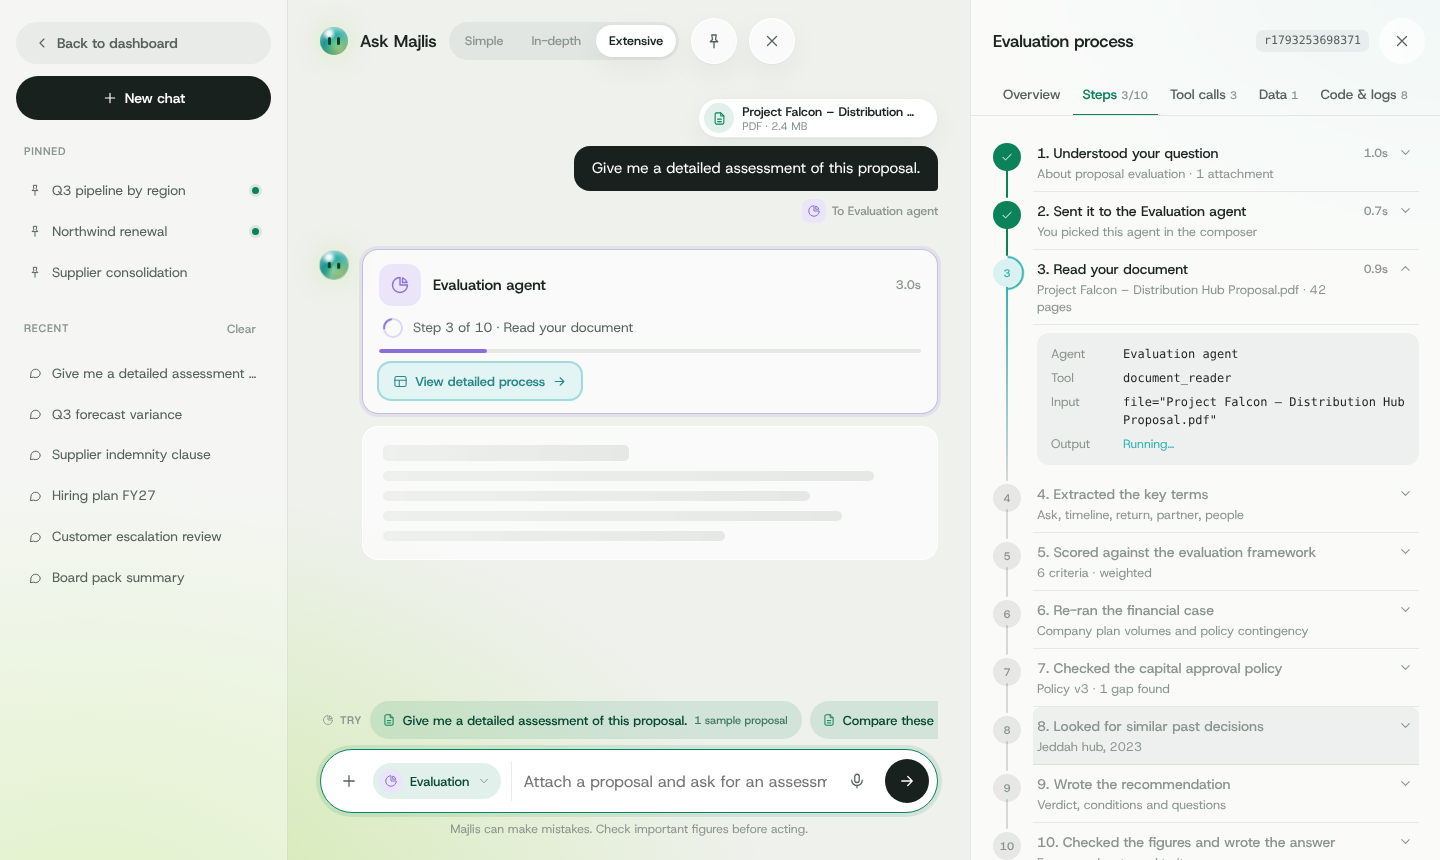
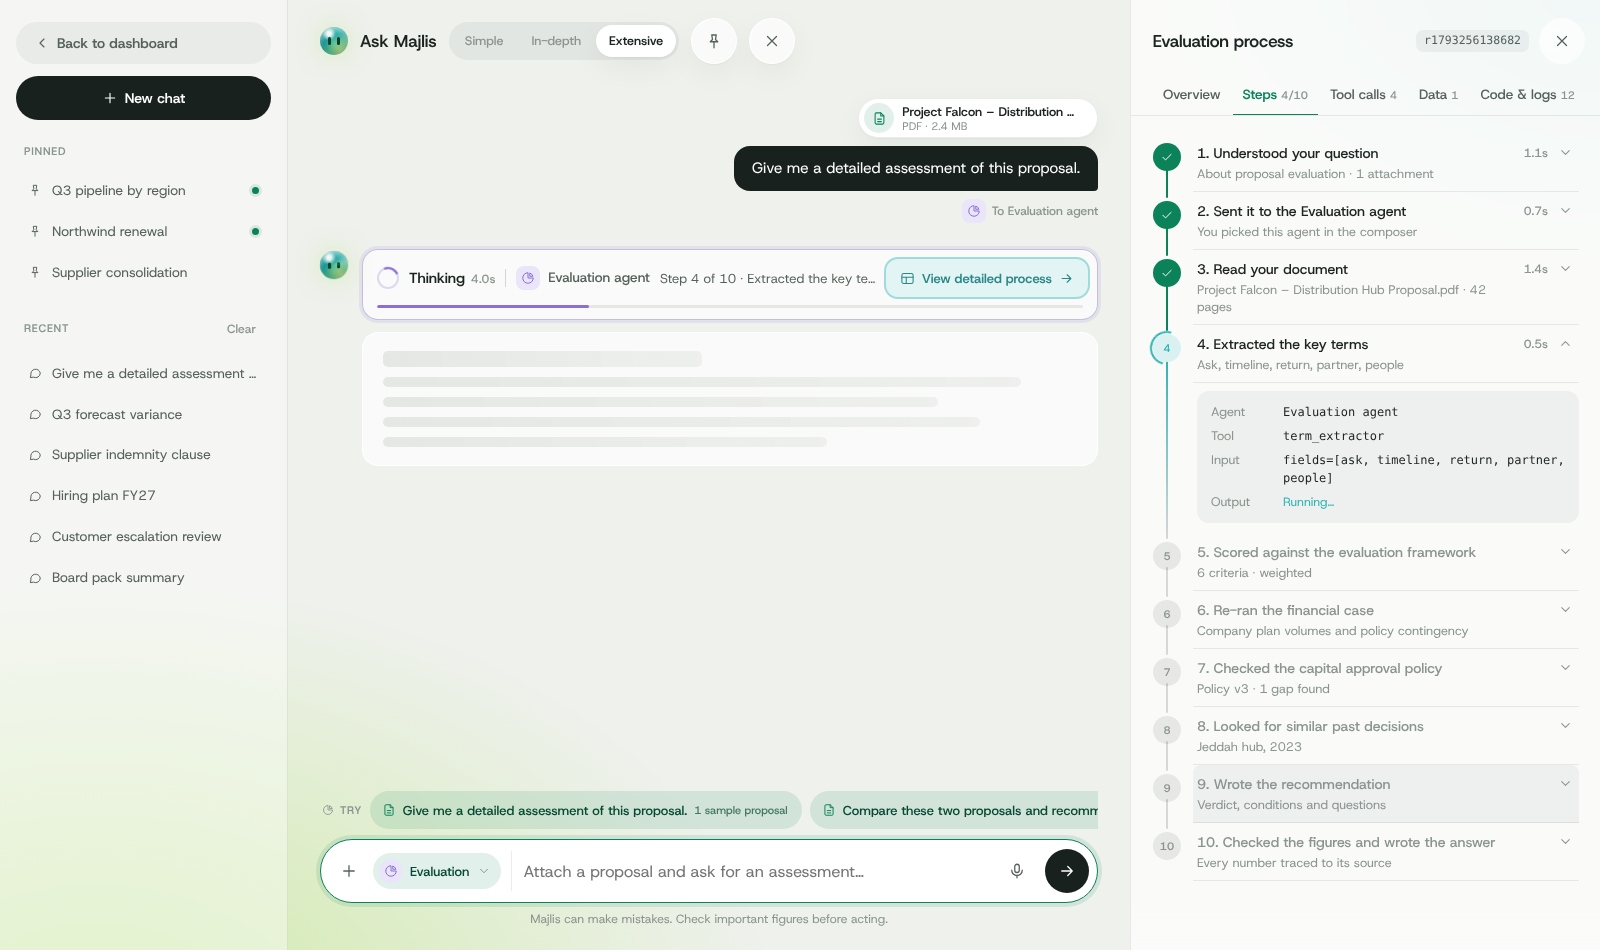
Option C Extensive: fix tab pill alignment, one-line thinking header
The selected-tab pill now re-measures whenever the tab row resizes
(the THINKING label hides while the panel is open). The chat card is
one row: Thought for Ns, the agent, then View detailed process.

Claude-Session: https://claude.ai/code/session_014bHdF62RKHgDmVWWjpCahj

diff --git a/Option C - Extensive.html b/Option C - Extensive.html
@@ -3983,17 +3983,20 @@ window.OM = OM;
 .xp-log .t{color:#6e7f76}.xp-log .lv{display:inline-block;min-width:42px}.xp-log .lv-i{color:#8fc7ff}.xp-log .lv-w{color:#ffcf7a}.xp-log .lv-o{color:#a6e3b8}
 .chat.is-xp .chat__h .chat__src,.chat.is-xp .chat__h .agnow,.chat.is-xp .tv small{display:none}#chatTitle{white-space:nowrap}
 /* the compact agent card in the chat */
-.xc{display:flex;flex-direction:column;gap:10px;padding:14px 16px;border-radius:var(--r);background:var(--card);border:1px solid var(--cardline);box-shadow:var(--shadow);transition:border-color .4s,box-shadow .4s}
+.xc{display:flex;flex-direction:column;gap:8px;padding:9px 9px 9px 14px;border-radius:var(--r);background:var(--card);border:1px solid var(--cardline);box-shadow:var(--shadow);transition:border-color .4s,box-shadow .4s}
 .xc.is-run{border-color:color-mix(in srgb,var(--c4) 35%,var(--line));box-shadow:0 0 0 3px color-mix(in srgb,var(--c4) 12%,transparent)}
-.xc__h{display:flex;align-items:center;gap:12px}.xc__h b{flex:1;font:600 15px/20px var(--font);color:var(--ink)}.xc__h time{font:500 12.5px/1 var(--font);color:var(--ink3);font-variant-numeric:tabular-nums}
-.xc__s{display:flex;align-items:center;gap:10px;padding-inline-start:4px;font-size:13.5px;color:var(--ink2);min-height:22px}
-.xc__dot{display:grid;place-items:center;width:20px;height:20px;border-radius:50%;flex:none;box-shadow:inset 0 0 0 2px var(--accent);color:var(--accent)}
-.xc.is-run .xc__dot{box-shadow:inset 0 0 0 2px color-mix(in srgb,var(--c4) 25%,transparent);position:relative}.xc.is-run .xc__dot::after{content:"";position:absolute;inset:0;border-radius:50%;border:2px solid transparent;border-top-color:var(--c4);animation:spin .8s linear infinite}
-.xc__tx{flex:1;min-width:0}.xc__tx>.swp__i{display:block;white-space:nowrap;overflow:hidden;text-overflow:ellipsis}
+.xc__row{display:flex;align-items:center;gap:10px;min-height:38px}
+.xc__dot{position:relative;display:grid;place-items:center;width:22px;height:22px;border-radius:50%;flex:none;background:var(--accent);color:var(--dark-ink)}
+.xc.is-run .xc__dot{background:none;box-shadow:inset 0 0 0 2px color-mix(in srgb,var(--c4) 25%,transparent)}.xc.is-run .xc__dot::after{content:"";position:absolute;inset:0;border-radius:50%;border:2px solid transparent;border-top-color:var(--c4);animation:spin .8s linear infinite}
+.xc__t{flex:none;font:600 14.5px/20px var(--font);color:var(--ink);white-space:nowrap}.xc__t time{margin-inline-start:6px;font-weight:500;color:var(--ink3);font-variant-numeric:tabular-nums}
+.xc__sep{flex:none;width:1px;height:18px;background:var(--line2)}
+.xc__ag{flex:none;display:inline-flex;align-items:center;gap:8px;font:500 13.5px/1 var(--font);color:var(--ink2);white-space:nowrap}
+.xc__tx{flex:1;min-width:0;font-size:13px;color:var(--ink3)}.xc__tx>.swp__i{display:block;white-space:nowrap;overflow:hidden;text-overflow:ellipsis}
 .xc.is-run .xc__tx .swp__i{background:linear-gradient(90deg,var(--ink2) 0 40%,var(--ink3) 50%,var(--ink2) 60% 100%) 0 0/250% 100%;-webkit-background-clip:text;background-clip:text;color:transparent;animation:shimmer 2s linear infinite}
-.xc__bar{height:4px;border-radius:99px;background:var(--tile2);overflow:hidden}.xc__bar i{display:block;height:100%;background:var(--c4);border-radius:inherit;transition:width .6s cubic-bezier(.2,.8,.2,1)}.xc:not(.is-run) .xc__bar{display:none}
-.xc__go{align-self:flex-start;display:inline-flex;align-items:center;gap:7px;height:36px;padding:0 14px;border-radius:12px;background:color-mix(in srgb,var(--c2) 14%,var(--card-s));font:600 13px/1 var(--font);color:color-mix(in srgb,var(--c2) 70%,var(--ink));transition:background .2s}
+.xc__bar{height:3px;margin:0 5px 2px 0;border-radius:99px;background:var(--tile2);overflow:hidden}.xc__bar i{display:block;height:100%;background:var(--c4);border-radius:inherit;transition:width .6s cubic-bezier(.2,.8,.2,1)}.xc:not(.is-run) .xc__bar{display:none}
+.xc__go{flex:none;margin-inline-start:auto;display:inline-flex;align-items:center;gap:7px;height:38px;padding:0 14px;border-radius:12px;background:color-mix(in srgb,var(--c2) 14%,var(--card-s));font:600 13px/1 var(--font);color:color-mix(in srgb,var(--c2) 70%,var(--ink));white-space:nowrap;transition:background .2s}
 .xc__go:hover{background:color-mix(in srgb,var(--c2) 24%,var(--card-s))}.xc__go .i:last-child{transition:transform .25s}.xc__go:hover .i:last-child{transform:translateX(3px)}
+@media (max-width:760px){.xc__row{flex-wrap:wrap;gap:8px}.xc__tx,.xc__sep{display:none}.xc__ag::before{content:"·";margin-inline-end:2px;color:var(--ink3)}.xc__t{font-size:14px}.xc__go{width:100%;justify-content:center;margin-inline-start:0}}
 .chat.is-xp .xc.is-sel .xc__go{box-shadow:0 0 0 2px color-mix(in srgb,var(--c2) 45%,transparent)}
 .xc-ghost{display:flex;flex-direction:column;gap:10px;padding:18px 20px;border-radius:var(--r);background:var(--card);border:1px solid var(--cardline)}
 .xc-ghost i{display:block;height:10px;width:var(--w,90%);border-radius:5px;background:linear-gradient(90deg,var(--tile2),var(--tile),var(--tile2)) 0 0/200% 100%;animation:barRun 2s linear infinite}.xc-ghost>i:first-child{height:16px;width:46%}
@@ -4089,14 +4092,14 @@ const OCX = (() => {
   function openPanel(r, tab) { shell(); if (P.run !== r) { P.run = r; P.oc = {}; P.os = {}; P.seenS = P.seenC = P.seenL = 0; P.touched = false; } if (tab) P.tab = tab; P.open = true; $('#chat').classList.add('is-xp'); paint(); }
   function closePanel() { P.open = false; $('#chat').classList.remove('is-xp'); $$('.xc').forEach(c => c.classList.remove('is-sel')); }
   /* ---------- the compact agent card in the chat ---------- */
-  const cardTx = r => { const s = r.steps.find(x => x.st === 'run'), n = r.steps.filter(x => x.st === 'done').length; return r.done ? 'Completed evaluation' : s ? `Step ${n + 1} of ${r.steps.length} · ${esc(s.t)}` : 'Starting…'; };
-  const cardHTML = r => `<div class="xc${r.done ? '' : ' is-run'}" data-xc="${r.id}"><div class="xc__h">${agAv('eval', true)}<b>${AG.eval.n}</b><time ${r.done ? '' : `data-run-t="${r.id}"`}>${secs(totalMs(r))}</time></div>
-    <div class="xc__s"><i class="xc__dot">${r.done ? ico('check', 12) : ''}</i>${swHTML('xc__tx', cardTx(r))}</div><div class="xc__bar"><i style="width:${(prog(r) * 100).toFixed(0)}%"></i></div>
-    <button type="button" class="xc__go" data-xp-open="${r.id}">${ico('layout', 15)}View detailed process${ico('arrowRight', 15)}</button></div>${r.done || r.ans ? '' : '<div class="xc-ghost" aria-hidden="true"><i></i><i style="--w:92%"></i><i style="--w:80%"></i><i style="--w:86%"></i><i style="--w:64%"></i></div>'}`;
+  const cardTx = r => { const s = r.steps.find(x => x.st === 'run'), n = r.steps.filter(x => x.st === 'done').length; return r.done ? '' : s ? `Step ${n + 1} of ${r.steps.length} · ${esc(s.t)}` : 'Starting…'; };
+  const cardRow = r => `<div class="xc__row"><i class="xc__dot">${r.done ? ico('check', 13) : ''}</i><b class="xc__t">${r.done ? `Thought for ${Math.max(1, Math.round(r.ms / 1000))}s` : `Thinking<time data-run-t="${r.id}">${secs(totalMs(r))}</time>`}</b><i class="xc__sep" aria-hidden="true"></i><span class="xc__ag">${agAv('eval')}${AG.eval.n}</span>${swHTML('xc__tx', cardTx(r))}<button type="button" class="xc__go" data-xp-open="${r.id}">${ico('layout', 15)}View detailed process${ico('arrowRight', 15)}</button></div><div class="xc__bar"><i style="width:${(prog(r) * 100).toFixed(0)}%"></i></div>`;
+  const cardHTML = r => `<div class="xc${r.done ? '' : ' is-run'}" data-xc="${r.id}">${cardRow(r)}</div>${r.done || r.ans ? '' : '<div class="xc-ghost" aria-hidden="true"><i></i><i style="--w:92%"></i><i style="--w:80%"></i><i style="--w:86%"></i><i style="--w:64%"></i></div>'}`;
   function mount(r) { const c = $(`[data-m="${r.id}"] .msg__c`); if (!c) return null; let w = $(`[data-xc="${r.id}"]`, c); if (w) return w;
     const tk = $(`[data-tk="${r.id}"], [data-rl="${r.id}"]`, c); tk ? tk.insertAdjacentHTML('afterend', cardHTML(r)) : c.insertAdjacentHTML('afterbegin', cardHTML(r)); tk && tk.remove(); return $(`[data-xc="${r.id}"]`, c); }
-  function patchCard(r) { const w = mount(r); if (!w) return; w.classList.toggle('is-run', !r.done); swap($('.xc__tx', w), cardTx(r)); $('.xc__bar i', w).style.width = (prog(r) * 100).toFixed(0) + '%';
-    if (r.done) { const t = $('.xc__h time', w); t.removeAttribute('data-run-t'); t.textContent = secs(r.ms); $('.xc__dot', w).innerHTML = ico('check', 12); } }
+  function patchCard(r) { const w = mount(r); if (!w) return;
+    if (r.done) { if (w.classList.contains('is-run')) { w.classList.remove('is-run'); w.innerHTML = cardRow(r); w.classList.toggle('is-sel', P.open && P.run === r); } return; }
+    swap($('.xc__tx', w), cardTx(r)); $('.xc__bar i', w).style.width = (prog(r) * 100).toFixed(0) + '%'; }
   /* ---------- the send flow for this view · same as the dashboard's; no checkpoint, the assumption is logged ---------- */
   async function send(q, opts = {}) { q = (q || '').trim() || (S.att.length ? 'Give me a detailed assessment of this proposal.' : ''); if (!q) { if (opts.open) openChat(opts.from); return; }
     S.lastQ = q; if (!S.hist.includes(q)) S.hist.unshift(q); const files = S.att.splice(0), sel = 'eval', mu = msgUser(q, files, sel); cmpPaint();
@@ -4117,10 +4120,11 @@ const OCX = (() => {
     await sleep(RM() ? 0 : 650); r.open = false; paintRun(r); revealAnswer(item); }
   /* ---------- thinking view tabs in the chat header ---------- */
   function tabs() { const h = $('.chat__h'); if (!h) return; let el = $('#obTabs');
-    if (!el) { h.insertAdjacentHTML('beforeend', `<div class="tv" id="obTabs" role="tablist" aria-label="Thinking view"><small>Thinking</small><i class="tv__th"></i>${TABS.map(([k, l, ti]) => `<button type="button" role="tab" data-obv="${k}" title="${ti}"${k === VIEW ? '' : ' data-soon'}>${l}</button>`).join('')}</div>`); el = $('#obTabs'); h.insertBefore(el, $('#chatPin')); }
+    if (!el) { h.insertAdjacentHTML('beforeend', `<div class="tv" id="obTabs" role="tablist" aria-label="Thinking view"><small>Thinking</small><i class="tv__th"></i>${TABS.map(([k, l, ti]) => `<button type="button" role="tab" data-obv="${k}" title="${ti}"${k === VIEW ? '' : ' data-soon'}>${l}</button>`).join('')}</div>`); el = $('#obTabs'); h.insertBefore(el, $('#chatPin')); if (window.ResizeObserver) new ResizeObserver(() => thumbAt(el)).observe(el); }
     el.hidden = !(S.agent === 'eval' || runs().some(r => r.xp));
     $$('[data-obv]', el).forEach(b => { b.classList.toggle('is-on', b.dataset.obv === VIEW); b.setAttribute('aria-selected', b.dataset.obv === VIEW); });
-    if (!el.hidden) requestAnimationFrame(() => { const o = $('.is-on', el), th = $('.tv__th', el); if (o) { th.style.width = o.offsetWidth + 'px'; th.style.transform = `translateX(${o.offsetLeft}px)`; } }); }
+    if (!el.hidden) requestAnimationFrame(() => thumbAt(el)); }
+  const thumbAt = el => { const o = $('.is-on', el), th = $('.tv__th', el); if (o && o.offsetWidth) { th.style.width = o.offsetWidth + 'px'; th.style.transform = `translateX(${o.offsetLeft}px)`; } };
   /* ---------- hooks into the dashboard's own pipeline ---------- */
   { const o = chatSend; chatSend = function (q, opts = {}) { if (!on()) return o.apply(this, arguments);
     if (CHAT_OPEN || !((q || '').trim() || S.att.length)) return send(q, opts); freshChat(); FRESH_SKIP = true; try { return send(q, opts); } finally { FRESH_SKIP = false; } }; }

diff --git a/thinking-options/thinking-depth/README.md b/thinking-options/thinking-depth/README.md
@@ -63,7 +63,7 @@ Screenshots: `majlis-option-a-indepth/`.
 
 `/Option C - Extensive.html` (repo root) follows the "Case 3: Show all information" reference: the chat stays focused on the result and the full orchestration lives in a side panel. Pick the **Evaluation** agent, attach one proposal (or use the "1 sample proposal" Try chip) and send:
 
-- **Chat**: a compact agent card ("Evaluation agent · Step 6 of 10 · Re-ran the financial case" → "Completed evaluation", with **View detailed process**), then the dashboard's full assessment.
+- **Chat**: a one-line card: **Thinking 6.0s** · Evaluation agent · current step while running, then **Thought for 11s** · Evaluation agent, with **View detailed process** on the right; then the dashboard's full assessment.
 - **Side panel**, a real third column so the chat narrows instead of being covered. It opens on its own when the run starts and follows it live on **Steps**; when the run finishes it moves to **Overview** unless you picked a tab.
   - **Overview**: total time, agents involved, tools used, data sources, assumptions applied (company plan 7% volume growth, logged rather than asked), final result.
   - **Steps**: 10 numbered steps; the running one is open with Agent / Tool / Input / Output, each done step has **View sample data** and **View logs**.
